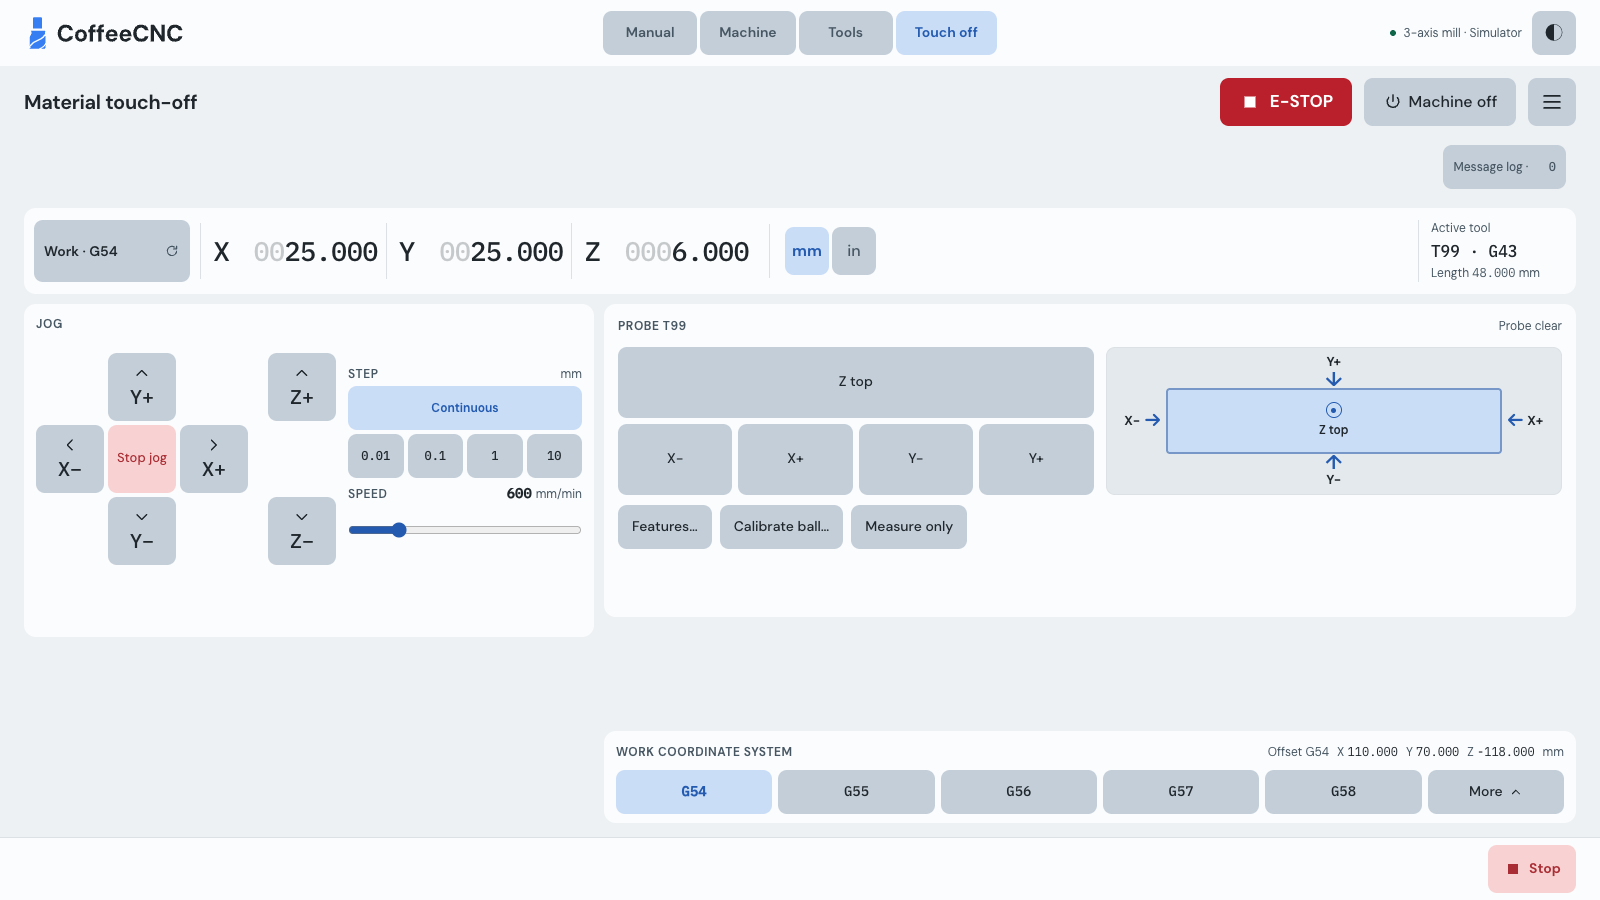
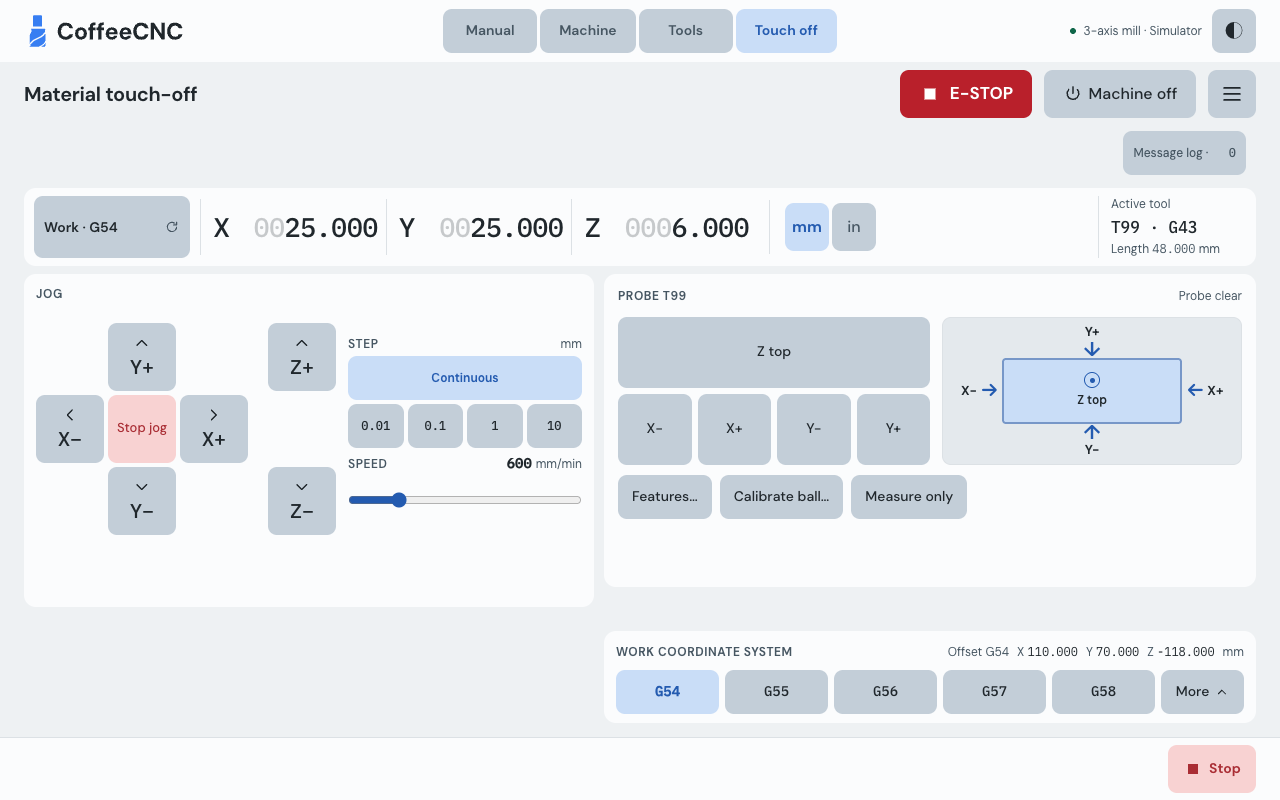
Refresh README screenshots at panel resolution

diff --git a/README.md b/README.md
@@ -51,7 +51,7 @@ See the app menu beside **Machine on** in [Light](ui/screenshots/simulator-machi
 - **3 points: Bore** and **Boss** set X0 and Y0 at the centre of the circle through three contacts in directions you choose, and show the diameter. Use them on a partial bore or boss, or where a 4-point cycle cannot reach. The directions must be at least 10° apart and cover at least 90° of the circle. The result shows the centre uncertainty estimated from latch repeatability only. CoffeeCNC sets nothing when the contacts lie almost on a line, when that estimate is more than 0.02 mm, or when the diameter of a boss differs from the entered diameter by more than 0.5 mm or 10 %. The diameter check catches only gross faults: a burr of 1 to 2 mm on one face passes it and moves the centre by about as much. Use **Measure only** to check the reported diameter before you set the origin.
 - **Edge angle** probes the front or left edge at two points and measures its angle from the current work axes. **Apply rotation** adds that angle to the active G5x rotation, so a second measurement after applying shows the turn that is left.
 - In a rotated work system, every probe cycle moves along the rotated X and Y axes and sets the origin in them. Ball calibration needs a work system without rotation.
-- **Measure only** makes every probe action above report what it finds without setting an offset. **Result** shows the measured point and each probed surface point in work and machine coordinates, with the size, diameter or angle. **Copy** copies the values. **Set X0 Y0…** (or the axis measured) shows what changes and sets it after confirmation, while the work system is unchanged.
+- **Measure only** makes every probe action above report what it finds without setting an offset. **Result** shows the measured point and each probed surface point in work and machine coordinates, with the size, diameter or angle. **Copy** copies the values. **Set X0 Y0…** (or the axis measured) shows what changes and sets it after confirmation, while the work system is unchanged. [Measure only result](ui/screenshots/probe-measure-only-result.png)
 - **Calibrate ball** measures the effective ball diameter on a gauge of known width and saves it to the tool table.
 - **Runout** (in Features…) calibrates the trigger radius of the probe ball on a ring or pin gauge of known diameter, after the ball calibration. The probe finds the gauge centre, then probes +X, −X, +Y and −Y through it. It keeps the trigger radius correction per axis, and the result shows it: check it, because a wrong gauge diameter shows there as half its error. The ball's eccentricity from the spindle axis is not corrected. The mill cannot orient its spindle (no M19), so the eccentricity points another way after every spindle run, tool change or turn by hand, and a stored eccentricity could double the error. Every later XY result of the probe uses the radius correction, also the 3-point bore and boss, along the direction of each contact. More than 0.05 mm per axis is refused. A new ball calibration or another table diameter turns it off. **Clear** removes it, with any tool loaded.
 - **Height map…** (in Features…) probes Z top at every point of a grid over an XY rectangle in the active work system, at most one step apart (2 to 150 points). The probe moves at a clearance Z between the points. Nothing is written. The map shows in the 3D view. **Save CSV** and **Save LinuxCNC probe file** write it to the program folder. The CSV starts with a comment line that gives the work system, the unit, the rotation and the date. The second file has the format that `(PROBEOPEN)` writes: X Y Z A B C U V W per point. A `.txt.json` file beside it gives its work system, unit, rotation and date. While the map runs, the band shows "point n of N" and a **Stop** button. A map that stops after some points keeps them as a partial map, and its files are labelled partial. LinuxCNC 2.9 has no built-in height-map compensation of programs. Its external offsets (HAL `axis.z.eoffset`) let a separate user component add a Z correction that follows XY. CoffeeCNC does not do that.
@@ -84,7 +84,7 @@ See the app menu beside **Machine on** in [Light](ui/screenshots/simulator-machi
 
 </details>
 
-The screenshots above show the browser simulator. See also the G0759 controller captures for [Manual](ui/screenshots/g0759-manual.png), [Tools](ui/screenshots/g0759-tools.png), and [Touch off](ui/screenshots/g0759-touch-off.png).
+The screenshots above show the browser simulator at 1280 × 800. See also the G0759 controller captures for [Manual](ui/screenshots/g0759-manual.png), [Tools](ui/screenshots/g0759-tools.png), and [Touch off](ui/screenshots/g0759-touch-off.png).
 
 ## Try it in the browser
 
